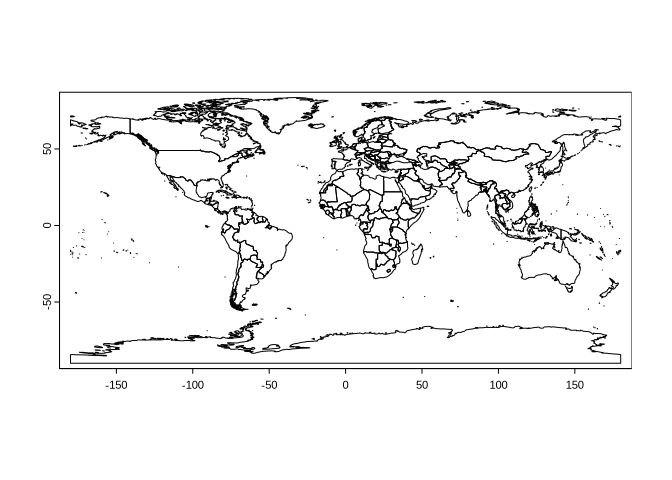
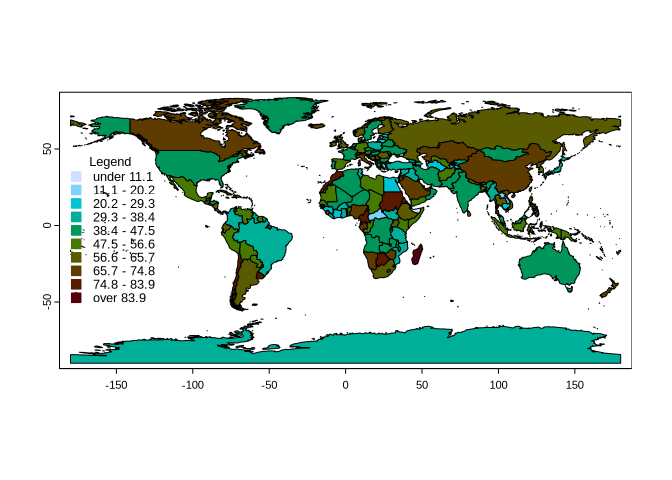
unit12-03 added equal count; modified content accordingly

diff --git a/docs/units/_unit12/unit12-03_colour_maps.md b/docs/units/_unit12/unit12-03_colour_maps.md
@@ -9,104 +9,120 @@ header:
 
 This is a short example on how to use the hcl colour palette for colouring features of a shapefile.
 
-
-## Load the required packages
+## Set up
 ```r
+# Load the required packages
 library("terra")
 library("classInt")
-```
 
-## Always clean the workspace first
-```r
+# Clean the workspace first
 rm(list=ls())
-```
 
-## Get helper functions (those from the previous page)
-```r
+# Get helper function from the previous page
 clrs_hcl2 <- function(n) {
   hcl(h = seq(0, 260, length.out = n), 
       c = 60, l = seq(10, 90, length.out = n), 
       fixup = TRUE)
 }
 
-pal <- function(col, border = "transparent", ...) {
-  n <- length(col)
-  plot(0, 0, type="n", xlim = c(0, 1), ylim = c(0, 1),
-       axes = FALSE, xlab = "", ylab = "", ...)
-  rect(0:(n-1)/n, 0, 1:n/n, 1, col = col, border = border)
-}
-
-# If you want to reverse the colour palette, do it like this
-pal(rev(clrs_hcl2(10)))
+## Set the seed to get the same results every time
+set.seed(42)
 ```
 
-<img src="{{ site.baseurl }}/assets/images/rmd_images/e12-03/unnamed-chunk-3-1.png" style="display: block; margin: auto;" />
-
-## World map as an example
+## Download world map as an example
 Download the data [here](https://www.naturalearthdata.com/http//www.naturalearthdata.com/download/50m/cultural/ne_50m_admin_0_countries.zip){:target="_blank"} or directly from within R.
 
-```r
+```r, eval = FALSE
 download.file("https://www.naturalearthdata.com/http//www.naturalearthdata.com/download/50m/cultural/ne_50m_admin_0_countries.zip", 
               destfile = "countries.zip")
 ```
 [NaturalEarthData](https://www.naturalearthdata.com/){:target="_blank"} has a nice collection of other free GIS data, too.
 
-
-## Example script for plotting with random colours
+## Plot with random colours
 ```r
 ## Read in shapefile
 world <- terra::vect("countries/ne_50m_admin_0_countries.shp")
 
-## Do the reality check and plot the map
-plot(world)
+## Generate random values that follow a normal distribution for each feature in the map
+randomNumbers <- as.integer(rnorm(nrow(world), 50, 16))
+
+## Plot using the random values as colours
+plot(world, col = randomNumbers)
+```
+
+<img src="{{ site.baseurl }}/assets/images/rmd_images/e12-03/unnamed-chunk-3-1.png" style="display: block; margin: auto;" />
+
+There are so many colours in the map and it looks messy.
+```r
+length(unique(randomNumbers))
+```
+
+```
+## [1] 66
+```
+
+## Plot using hcl colours with equal interval classes
+If we want to do classified plotting, i.e. assign a particular colour to each class, we need to classify our data first and then assign colours to each class.
+
+```r
+# number of classes
+n <- 10
+
+# Classify the randomly generated data using 10 equal interval classes
+intervals <- classInt::classIntervals(randomNumbers, n = n, style = "equal")
+
+# assign colours to the intervals
+myColours <- classInt::findColours(intervals, rev(clrs_hcl2(n)), cutlabels = FALSE)
+
+# Plot using the new colours
+plot(world, col = myColours)
+add_legend(
+    "left", legend = names(attr(myColours, "table")), 
+    fill = attr(myColours, "palette"), 
+    border = attr(myColours, "palette"), 
+    bty = "n", title = "Legend", cex = 0.8, y.intersp = 0.7
+)
 ```
 
 <img src="{{ site.baseurl }}/assets/images/rmd_images/e12-03/unnamed-chunk-5-1.png" style="display: block; margin: auto;" />
 
+We used 10 equal interval classes. The frequency of colours is shown below.
 ```r
-## Let's generate some random values for each feature for plotting later
-## note that no seed is set here, so every call will result in a different result
-world$random <- sample(1:100, nrow(world), replace = TRUE)
-
-## Use new field with random values for colour plotting
-plot(world, col = world$random)
+hist(randomNumbers, breaks = intervals$brks, col = attr(myColours, "palette"))
 ```
 
 <img src="{{ site.baseurl }}/assets/images/rmd_images/e12-03/unnamed-chunk-6-1.png" style="display: block; margin: auto;" />
 
-## Example script for plotting with classified hcl colours
-If we want to do classified plotting, i.e. assign a particular colour to each class, we need to classify our data first and then assign colours to each class.
+## Plot using hcl colours with equal count classes
+In the above map, some colours appeared more often than others. If we want every colour to appear about the same number of times, we can divide the values into equal count classes.
 
 ```r
-## Choose the number of desired classes
-n <- 10
+# Classify the randomly generated data using 10 equal count classes
+intervals <- classInt::classIntervals(randomNumbers, n = n, style = "quantile")
 
-## Classify the randomly generated data (or any numeric attribute) with some method.
-## In this case equaly spaces classed, i.e. all classed have equal widths.
-## See ?classIntervals for more options.
-intervalls <- classInt::classIntervals(world$random, n = n, style = "equal")
+# assign colours to the intervals
+myColours <- classInt::findColours(intervals, rev(clrs_hcl2(n)), cutlabels = FALSE)
 
-intervalls$brks # shows the calculated breaks
-
-## Assign each class within the feature the a colour according to the previous classification.
-## The colours are produced with the self-defined clrs_hcl2() function from above.
-## Execute all parts of the code line below to see what they do and what they contain.
-## Noteworthy, the values of the object "colours" are the colours definded in the hexadecimal
-## system and there are as many entries as there are values in the original data
-## (attribute "random" in this case). One colour for each value.
-colours <- classInt::findColours(intervalls, rev(clrs_hcl2(n)), cutlabels = FALSE)
-
-## Add the colour code to the attribute table of the spatial object
-world$colours <- colours
-
-## Use the new field with the colour code for plotting
-plot(world, col = world$colours)
-add_legend("left", legend = names(attr(colours, "table")), 
-           fill = attr(colours, "palette"), 
-           border = attr(world$colours, "palette"), 
-           bty = "n", title = "Legend", cex = 0.45, y.intersp = 0.7)
+# Plot using the new colours
+plot(world, col = myColours)
+add_legend("left", legend = names(attr(myColours, "table")), 
+           fill = attr(myColours, "palette"), 
+           border = attr(myColours, "palette"), 
+           bty = "n", title = "Legend", cex = 0.8, y.intersp = 0.7)
 ```
 
 <img src="{{ site.baseurl }}/assets/images/rmd_images/e12-03/unnamed-chunk-7-1.png" style="display: block; margin: auto;" />
 
-Clearly, the above examples are not ready for publication but intended to demonstrate a schematic workflow for classifying and colouring maps, be it vector or raster.
+We used 10 equal count classes. The frequency of colours is now about the same.
+```r
+hist(randomNumbers, breaks = intervals$brks, col = attr(myColours, "palette"), freq = TRUE)
+```
+
+<img src="{{ site.baseurl }}/assets/images/rmd_images/e12-03/unnamed-chunk-8-1.png" style="display: block; margin: auto;" />
+
+## Save colours in map
+We can save the colour information in the map for later use.
+```r
+world$colours <- myColours
+terra::writeVector(world, "world with color.shp", overwrite = TRUE)
+```
